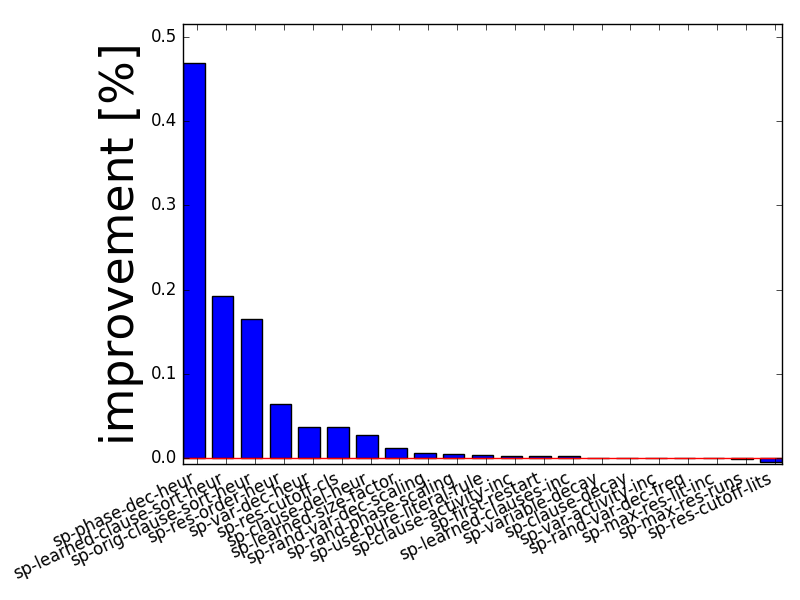
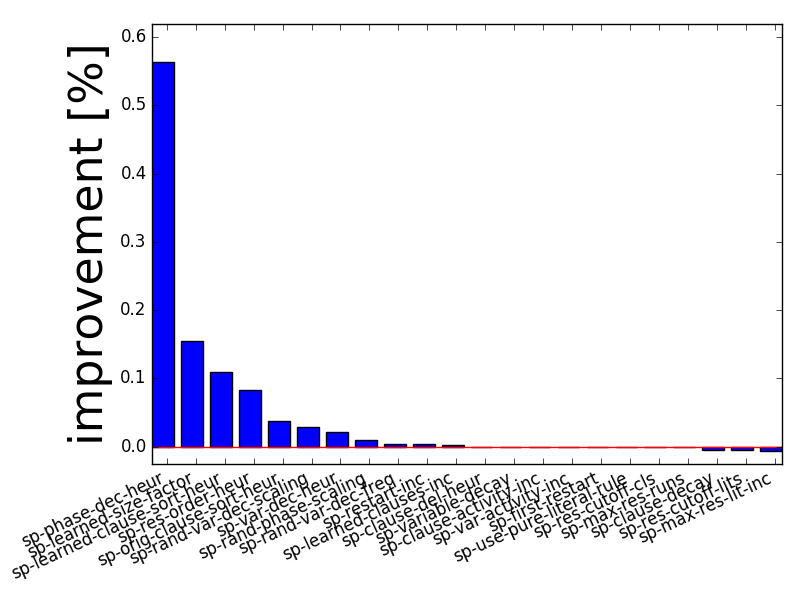
FIX bug that caused one parameter importance value to not be plotted in the ablation percentage barchart

Changed region(s): [[0.0, 0.03, 1.0, 0.96]]

diff --git a/importance/evaluator/ablation.py b/importance/evaluator/ablation.py
@@ -170,10 +170,10 @@ class Ablation(AbstractEvaluator):
                 performances[1:-1], width=.75)
 
         ax1.set_xticks(np.arange(len(path)) + 0.5)
-        ax1.set_xlim(0, len(path) - 1.25)
+        ax1.set_xlim(0, len(path) - .25)
 
         ax1.set_ylabel('improvement [%]', fontsize=fontsize, zorder=81)
-        ax1.set_ylim(min(performances) - .35*min(performances), max(performances) + .1*max(performances))
+        ax1.set_ylim(-0.025, max(performances) + .1*max(performances))
         ax1.plot(list(range(-1, len(path) + 1)), [0 for _ in range(len(path) + 2)], c='r')
         ax1.set_xticklabels(path, rotation=25, ha='right')
 
